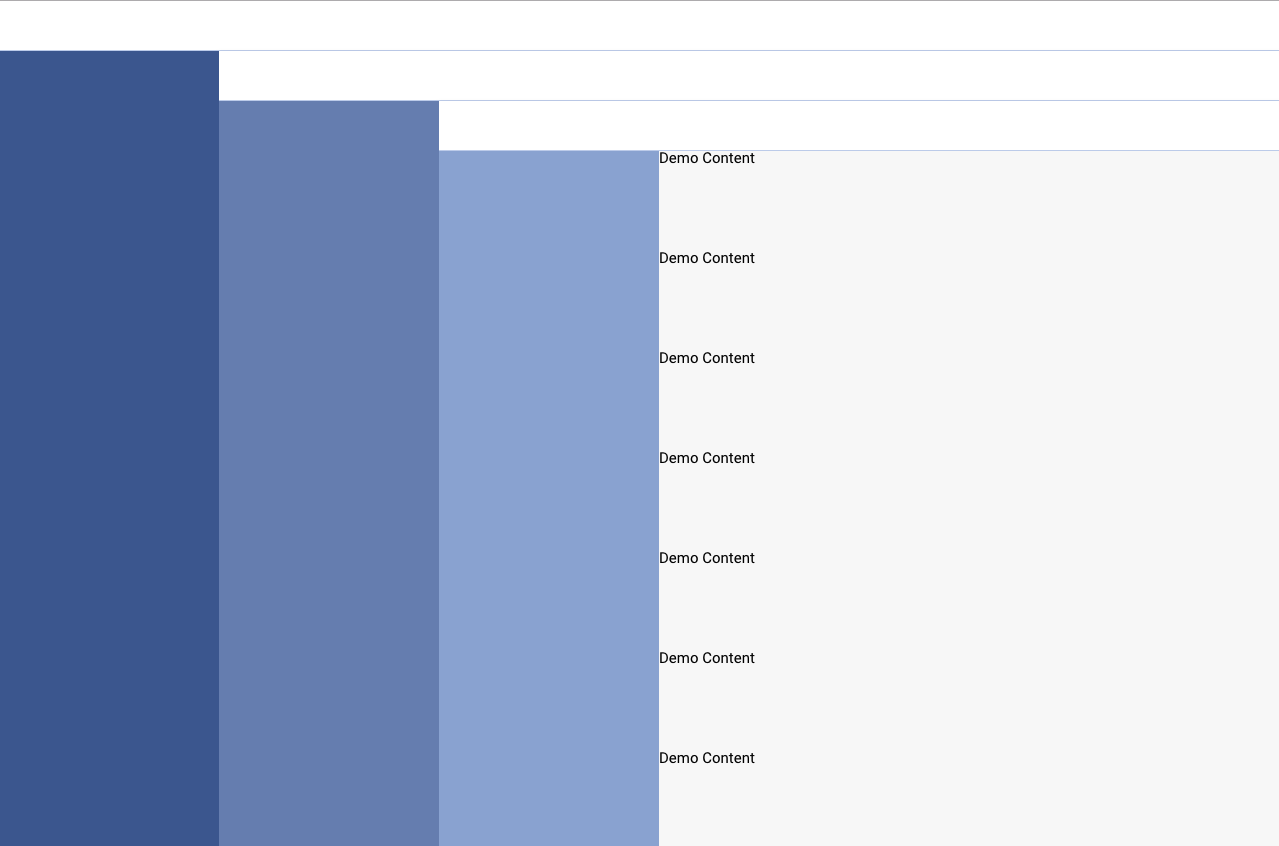
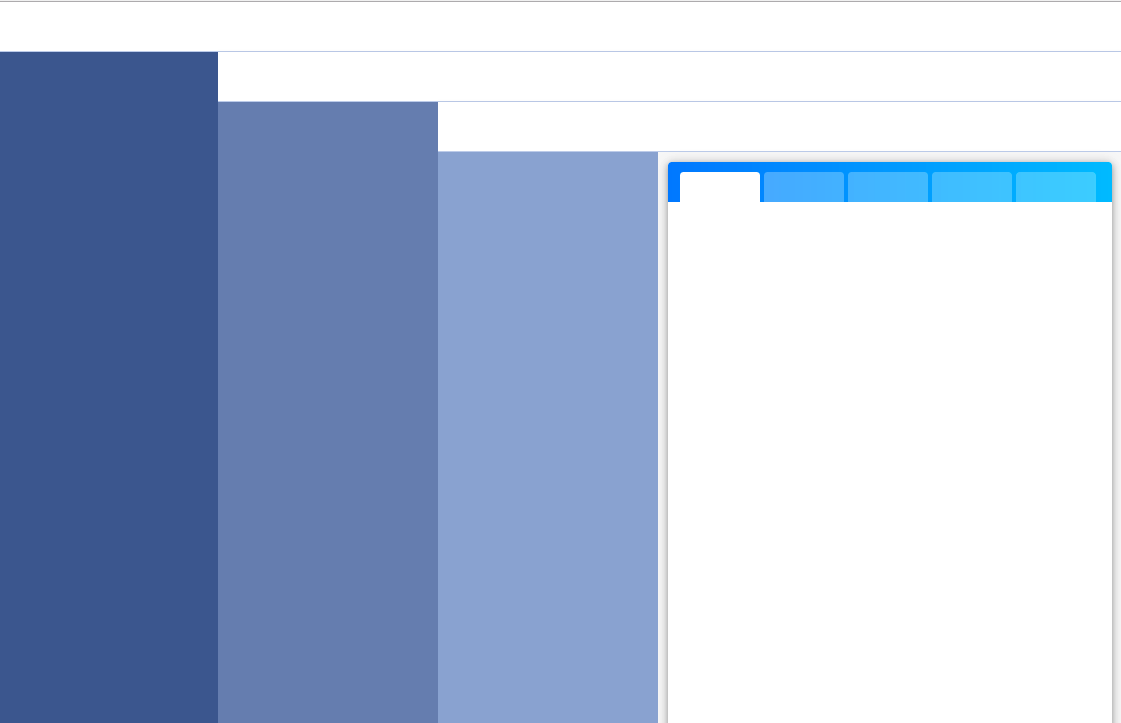
- update template

Changed region(s): [[0.0, 0.0609, 0.9991, 1.0]]

diff --git a/styleguide/views/template-layout-embeded.html b/styleguide/views/template-layout-embeded.html
@@ -23,20 +23,28 @@ htmlClass: sg-layout-body
                 </div>
                 <div class="{{styleguide.prefix}}-ap-nav" style="background-color: #95ACD4"></div>
                 <div class="{{styleguide.prefix}}-ap-main">
-                  <div style="display: block; width: 100%; height: 100%; overflow: auto;">
-                    <ul>
-                      <li style="height: 100px">Demo Content</li>
-                      <li style="height: 100px">Demo Content</li>
-                      <li style="height: 100px">Demo Content</li>
-                      <li style="height: 100px">Demo Content</li>
-                      <li style="height: 100px">Demo Content</li>
-                      <li style="height: 100px">Demo Content</li>
-                      <li style="height: 100px">Demo Content</li>
-                      <li style="height: 100px">Demo Content</li>
-                      <li style="height: 100px">Demo Content</li>
-                      <li style="height: 100px">Demo Content</li>
-                    </ul>
+
+                  <div class="demo-card">
+                    <div class="{{styleguide.prefix}}-cell-row">
+                      <ul class="demo-subtab">
+                        <li class="demo-item demo-active"></li>
+                        <li class="demo-item"></li>
+                        <li class="demo-item"></li>
+                        <li class="demo-item"></li>
+                        <li class="demo-item"></li>
+                        <li class="demo-item"></li>
+                        <li class="demo-item"></li>
+                      </ul>
+                    </div>
+                    <div class="{{styleguide.prefix}}-cell-row {{styleguide.prefix}}-height-100"></div>
+                    <div class="{{styleguide.prefix}}-cell-row">
+                      <div class="{{styleguide.prefix}}-btn-list {{styleguide.prefix}}-padding {{styleguide.prefix}}-txt--right {{styleguide.prefix}}-border-top">
+                        <div class="{{styleguide.prefix}}-btn {{styleguide.prefix}}-btn-default"></div>
+                        <div class="{{styleguide.prefix}}-btn {{styleguide.prefix}}-btn-flat-primary"></div>
+                      </div>
+                    </div>
                   </div>
+
                 </div>
               </div>
             </div>

diff --git a/styleguide/views/template.html b/styleguide/views/template.html
@@ -13,7 +13,7 @@ mainPage: true
       <div class="demo-template-sec">
         <div class="demo-template-info">
           <div class="demo-info-title">單一框架</div>
-          <div class="demo-info-content">當頁面沒有多欄位需求，您可以使用 Vital UI Kit 提供的 sg-container 排版元件，搭配 sg-row、sg-col 輕鬆做好基本的排版，讓您專注在樣式的客制化。</div>
+          <div class="demo-info-content">當頁面沒有多欄位需求，您可以使用 Vital UI Kit 提供的 class: sg-container 排版元件，搭配 sg-row、sg-col 輕鬆做好基本的排版，讓您專注在樣式的客制化。</div>
         </div>
         <div class="demo-template-preview">
           <div class="demo-preview-img"></div>

diff --git a/styleguide/views/index.html b/styleguide/views/index.html
@@ -108,7 +108,7 @@ mainPage: true
 
     <div class="txt-wrap">
       <h2>出類拔萃</h2>
-      <p class="sg-txt--left">Vital UI Kit 不僅整理了常用又實用的元件，而且每一項元素都經過設計師與工程師合力精雕細琢產生，讓您在實作上能輕易的應用，也兼顧設計性、互動性與易用性。</p>
+      <p class="{{styleguide.prefix}}-txt--left">Vital UI Kit 不僅整理了常用又實用的元件，而且每一項元素都經過設計師與工程師合力精雕細琢產生，讓您在實作上能輕易的應用，也兼顧設計性、互動性與易用性。</p>
     </div>
     <div class="triggerbox"></div>
   </div>

diff --git a/styleguide/views/layouts/includes/f-menu.html b/styleguide/views/layouts/includes/f-menu.html
@@ -14,7 +14,10 @@
     <li>
       <a href="getting-started.html" class="f-menu__heading">Getting Started</a>
     </li>
-
+<!--     <li>
+      <a href="kendo-demo.html" class="f-menu__heading" target="_blank">Kendo Custom Theme</a>
+    </li> -->
+    
 		{{#each materials}}
 		<li>
 			<a href="{{@key}}.html" class="f-menu__heading">{{name}}</a>
@@ -51,10 +54,6 @@
 				{{/each}}
 			</ul>
 		</li>
-
-    <li>
-      <a href="kendo-demo.html" class="f-menu__heading" target="_blank">Kendo Custom Theme</a>
-    </li>
 
 	</ul>
 

diff --git a/styleguide/assets/styles/base/_variables.scss b/styleguide/assets/styles/base/_variables.scss
@@ -18,6 +18,8 @@ $icomoon-font-path:                       '../fonts';
 //   base
 // -------------------------------------
 
+$c-water-list:                            #F7F9FE #EEF2FC #D8E3F6 #C4D2EB #95ACD4 #7189B6 #456297 #2A487F #1E3768 !default;
+$c-skyblue-list:                          #D9ECFF #A6D2FF #73B9FE #419FFE #0E86FE #016DD8 #0153A5 #003A73 #002040 !default;
 $c-brand-purple:                          #6654EC;
 $c-brand-blue:                            #54CAF9;
 $c-brand-blue2:                           #35AFFF;

diff --git a/styleguide/views/layouts/styleguide-template.html b/styleguide/views/layouts/styleguide-template.html
@@ -29,7 +29,7 @@
 	      <a href="index.html">首頁</a>
 	      <a href="getting-started.html">開始使用</a>
 	      <a href="template.html">範例應用</a>
-	      <a href="mailto:cs_fed_1@gss.com.tw">聯絡我們</a>
+	      <a href="https://uwillx.com/" target="_blank">聯絡我們</a>
 	    </div>
 	    <div class="nav-dropdown-wrapper download-wrapper">
 	    	<div class="nav-dropdown-toggle">下載 UI KIT</div>

diff --git a/styleguide/assets/styles/page/_template.scss b/styleguide/assets/styles/page/_template.scss
@@ -170,6 +170,8 @@
 
 .#{$prefix}-tab {
   padding: 10px 10px 0;
+  max-height: 48px;
+  overflow: hidden;
 
   .#{$prefix}-item {
     display: inline-block;
@@ -197,6 +199,8 @@
   padding: 10px 12px 0;
   background: $template-subtab-bg-gradient;
   font-size: 0;
+  max-height: 40px;
+  overflow: hidden;
 
   .#{$prefix}-item {
     display: inline-block;

diff --git a/styleguide/assets/styles/page/_fabricator-demo.scss b/styleguide/assets/styles/page/_fabricator-demo.scss
@@ -125,10 +125,10 @@
 }
 
 .demo-cell-group {
-  .#{$prefix}-cell,
-  .#{$prefix}-col {
+  .#{$kit-prefix}-cell,
+  .#{$kit-prefix}-col {
     position: relative;
-    background-color: pink;
+    background-color: nth($c-skyblue-list, 1);
     padding: 10px;
     text-align: center;
 

diff --git a/styleguide/assets/styles/fabricator/_item.scss b/styleguide/assets/styles/fabricator/_item.scss
@@ -40,6 +40,13 @@
   width: 35em;
 }
 
+.demo-btn-paragraph,
+.f-item-preview {
+  & > *:not(:last-child) {
+    margin-right: 5px;
+  }
+}
+
 .f-item-border-bottom {
 	border-bottom: 1px solid color(light);
 }

diff --git a/styleguide/assets/styles/page/_getting-started.scss b/styleguide/assets/styles/page/_getting-started.scss
@@ -13,11 +13,6 @@
     padding: 10px 0;
     line-height: 1.4rem;
   }
-  .#{$prefix}-btn {
-    .icon-right {
-      margin-left: 4px;
-    }
-  }
   li {
     padding: 10px 0;
   }
